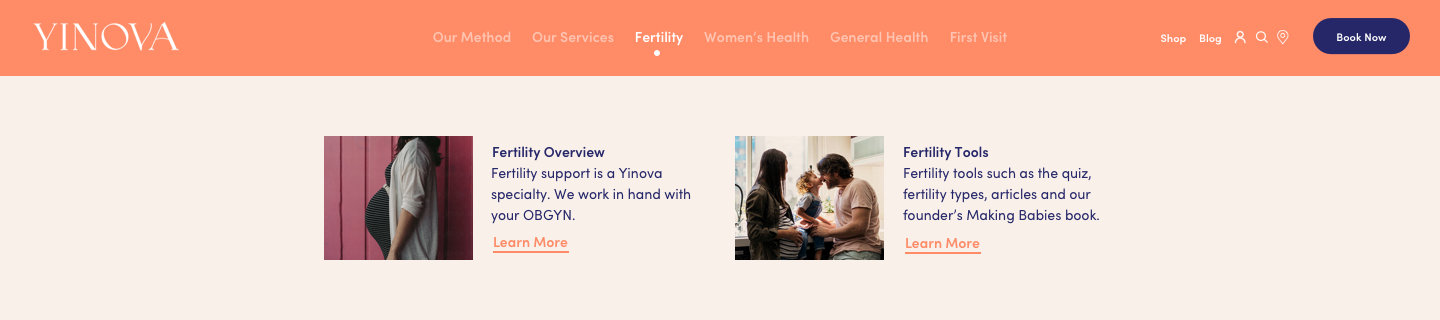
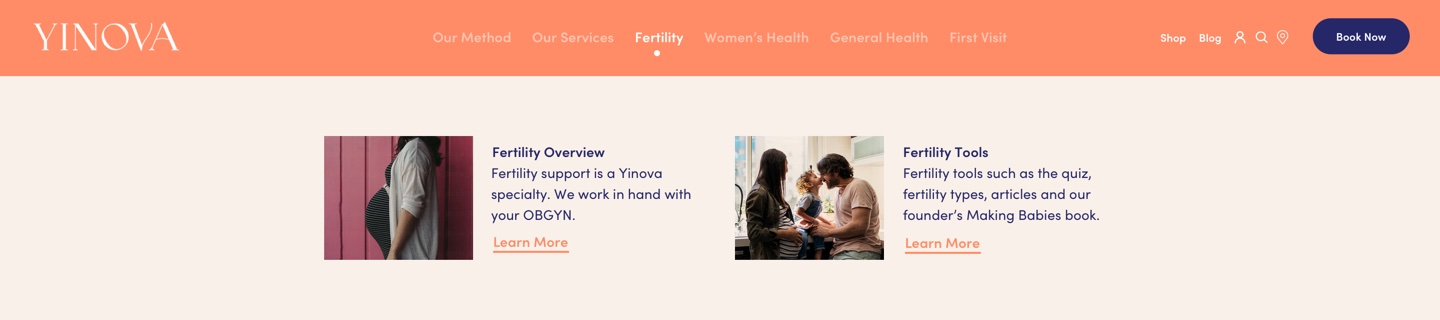
Concept B V1.3

diff --git a/yinova/b/index.hyperesources/index_hype_generated_script.js b/yinova/b/index.hyperesources/index_hype_generated_script.js
@@ -3,5 +3,5 @@
 (function(){(function k(){function l(a,b,d){var c=!1;null==window[a]&&(null==window[b]?(window[b]=[],window[b].push(k),a=document.getElementsByTagName("head")[0],b=document.createElement("script"),c=h,false==!0&&(c=""),b.type="text/javascript",b.src=c+"/"+d,a.appendChild(b)):window[b].push(k),c=!0);return c}var h="index.hyperesources",c="index",e="index_hype_container";if(false==!1)try{for(var f=document.getElementsByTagName("script"),
 a=0;a<f.length;a++){var b=f[a].src,d=null!=b?b.indexOf("/index_hype_generated_script.js"):-1;if(-1!=d){h=b.substr(0,d);break}}}catch(n){}if(false==!1&&(a=navigator.userAgent.match(/MSIE (\d+\.\d+)/),a=parseFloat(a&&a[1])||null,a=l("HYPE_590","HYPE_dtl_590",!0==(null!=a&&10>a||false==!0)?"HYPE-590.full.min.js":"HYPE-590.thin.min.js"),false==!0&&(a=a||l("HYPE_w_590","HYPE_wdtl_590","HYPE-590.waypoints.min.js")),a))return;f=window.HYPE.documents;
 if(null!=f[c]){b=1;a=c;do c=""+a+"-"+b++;while(null!=f[c]);d=document.getElementsByTagName("div");b=!1;for(a=0;a<d.length;a++)if(d[a].id==e&&null==d[a].getAttribute("HYP_dn")){var b=1,g=e;do e=""+g+"-"+b++;while(null!=document.getElementById(e));d[a].id=e;b=!0;break}if(!1==b)return}b=[];b=[{name:"untitledFunction",source:"function(hypeDocument, element, event) {\t\n\t\t\n\t\t\n\t\t\tmenu = hypeDocument.getElementById('menu');\n\n\twindow.onscroll = function(){\n\t\tvar scroll = window.pageYOffset || (document.body.scrollTop || document.documentElement.scrollTop);\n\t\t\n\t\tvar menuDelta = 100;\n\t\tvar menuFadeOut = 9000;\n\n\t\tif (scroll > menuDelta){\n\t\t\tmenu.classList.add('sticky')\n\t\t}\n\t\tif (scroll <= menuDelta){\n\t\t\tmenu.classList.remove('sticky')\n\t\t}\n\t\tif (scroll > menuFadeOut){\n\t\t\tmenu.classList.remove('sticky')\n\t\t}\n\t};\t\n\t\n\n\n}",identifier:"11"},{name:"untitledFunction2",source:"function(hypeDocument, element, event) {\t\n\t\t\n\t\t\tmenu = hypeDocument.getElementById('menub');\n\n\twindow.onscroll = function(){\n\t\tvar scroll = window.pageYOffset || (document.body.scrollTop || document.documentElement.scrollTop);\n\t\t\n\t\tvar menubDelta = 100;\n\t\tvar menubFadeOut = 14000;\n\n\t\tif (scroll > menubDelta){\n\t\t\tmenub.classList.add('sticky')\n\t\t}\n\t\tif (scroll <= menubDelta){\n\t\t\tmenub.classList.remove('sticky')\n\t\t}\n\t\tif (scroll > menubFadeOut){\n\t\t\tmenub.classList.remove('sticky')\n\t\t}\n\t};\t\n}",identifier:"186"}];d={};g={};for(a=0;a<b.length;a++)try{g[b[a].identifier]=b[a].name,d[b[a].name]=eval("(function(){return "+b[a].source+"})();")}catch(m){window.console&&window.console.log(m),d[b[a].name]=
-function(){}}a=new HYPE_590(c,e,{"10":{p:1,n:"C2%20Fertility%20Design%20V1_2x.jpg",g:"480",o:true,t:"@2x"},"2":{p:1,n:"C2%20Sticky%20Nav.jpg",g:"478",t:"@1x"},"-2":{n:"blank.gif"},"3":{n:"FORYINOVA.mp4",g:"428",t:"video/mp4"},"4":{p:1,n:"C2%20Yinova%20Desktop%20Nav%20Fertility.jpg",g:"481",t:"@1x"},"5":{p:1,n:"C2%20Slideout%20Desktop.png",g:"483",o:true,t:"@1x"},"6":{p:1,n:"C2%20Slideout%20Desktop_2x.png",g:"483",o:true,t:"@2x"},"7":{p:1,n:"C2%20Homepage%20Design%20V1.jpg",g:"479",o:true,t:"@1x"},"-1":{n:"PIE.htc"},"0":{p:1,n:"StickyNav.jpg",g:"446",o:true,t:"@1x"},"8":{p:1,n:"C2%20Homepage%20Design%20V1_2x.jpg",g:"479",o:true,t:"@2x"},"1":{p:1,n:"StickyNav_2x.jpg",g:"446",o:true,t:"@2x"},"9":{p:1,n:"C2%20Fertility%20Design%20V1.jpg",g:"480",o:true,t:"@1x"}},h,[],d,[{n:"Homepage",o:"1",X:[0]},{n:"Fertility",o:"245",X:[1]}],[{A:{a:[{p:4,h:"11"}]},o:"3",p:"600px",cA:false,Y:1440,Z:5345,c:"#FFFFFF",L:[],bY:1,d:1440,U:{},T:{"309":{i:"309",n:"Navigation",z:0,b:[],a:[],f:30},kTimelineDefaultIdentifier:{i:"kTimelineDefaultIdentifier",n:"Main Timeline",z:16.24,b:[],a:[{y:0,p:1,i:"Video Track",z:16.24,o:"496",f:"a"}],f:30},"460":{i:"460",n:"Expanded Navigation",z:0.15,b:[],a:[{f:"c",y:0,z:0.15,i:"e",e:1,s:0,o:"498"},{y:0.15,i:"e",s:1,z:0,o:"498",f:"c"}],f:30},"436":{i:"436",n:"Slideout SmartyCallOut",z:0,b:[],a:[],f:30}},bZ:180,O:["489","493","490","491","492","494","496","497","498","488","499","495"],n:"Untitled Layout","_":0,v:{"496":{aR:"1",x:"visible",bE:"428",a:0,b:-89,j:"absolute",bF:"495",c:1440,k:"video",z:1,d:810,aO:"0",aQ:"1",aH:"1"},"491":{G:"#CA3725",aU:8,aV:8,r:"inline",s:"Helvetica,Arial,Sans-Serif",t:12,Z:"break-word",v:"bold",w:"PROTOTYPE NAVIGATION<br>",bF:"490",A:"#CA3725",x:"visible",yy:"nowrap",B:"#CA3725",y:"preserve",j:"absolute",C:"#CA3725",z:5,k:"div",D:"#CA3725",aS:8,aT:8,a:34,b:5},"499":{c:58,d:27,I:"None",e:1,J:"None",K:"None",L:"None",M:0,N:0,A:"#D8DDE4",x:"visible",j:"absolute",B:"#D8DDE4",k:"div",O:0,C:"#D8DDE4",z:81,P:0,D:"#D8DDE4",aC:{a:[{b:"460",p:3,z:true,symbolOid:"2"}]},a:631,aD:{a:[{b:"460",p:3,z:false,symbolOid:"2"}]},b:64},"488":{h:"479",p:"no-repeat",x:"visible",a:0,q:"100% 100%",b:40,j:"absolute",dB:"img",z:1,k:"div",c:1440,d:5305,r:"inline",cQ:1,cR:1},"494":{b:7,z:7,K:"None",c:99,L:"None",d:19,aS:3,M:0,e:0.59999999999999998,bD:"none",N:0,aT:3,dB:"button",O:0,g:"#333333",aU:3,P:0,bF:"490",aV:3,j:"absolute",k:"div",aI:4,aJ:4,aK:4,X:-0.32954499999999998,aL:4,A:"#A0A0A0",Y:19,B:"#A0A0A0",Z:"break-word",r:"inline",C:"#A0A0A0",D:"#A0A0A0",t:11,aA:{a:[{d:1.1000000000000001,p:1,g:1,e:"245"}]},F:"center",v:"normal",G:"#FFFFFF",aP:"pointer",w:"Fertility",x:"visible",I:"None",a:726,y:"preserve",J:"None"},"497":{c:1456,d:693,I:"None",r:"inline",J:"None",K:"None",L:"None",M:0,N:0,bF:"495",A:"#D8DDE4",x:"visible",j:"absolute",B:"#D8DDE4",k:"div",O:0,C:"#D8DDE4",z:2,l:0,D:"#D8DDE4",m:"rgba(0, 0, 0, 0.000)",P:0,n:"rgba(0, 0, 0, 0.203)",a:-8,b:-78},"492":{b:7,z:6,K:"None",c:99,L:"None",d:19,aS:3,M:0,e:0.29999999999999999,bD:"none",N:0,aT:3,dB:"button",O:0,g:"#333333",aU:3,P:0,bF:"490",aV:3,j:"absolute",aI:4,k:"div",aJ:4,aK:4,X:-0.32954499999999998,aL:4,A:"#A0A0A0",Y:19,B:"#A0A0A0",Z:"break-word",r:"inline",C:"#A0A0A0",D:"#A0A0A0",t:11,F:"center",v:"normal",G:"#FFFFFF",aP:"pointer",w:"Homepage",x:"visible",I:"None",a:611,y:"preserve",J:"None"},"489":{h:"478",p:"no-repeat",x:"visible",i:"menu",q:"100% 100%",b:-95,a:1,j:"absolute",z:85,k:"div",dB:"img",d:53,c:1440,r:"inline",aP:"pointer"},"495":{k:"div",x:"hidden",c:1440,d:558,z:73,a:0,j:"absolute",b:116},"490":{x:"visible",k:"div",c:1440,d:40,z:65,e:1,a:0,j:"absolute",b:0},"498":{h:"481",p:"no-repeat",x:"visible",a:0,q:"100% 100%",b:40,j:"absolute",dB:"img",z:80,k:"div",c:1440,d:320,r:"inline",e:0},"493":{c:1440,d:40,I:"None",J:"None",K:"None",g:"#D3D5D7",L:"None",M:0,N:0,bF:"490",A:"#D8DDE4",x:"visible",j:"absolute",B:"#D8DDE4",k:"div",O:0,C:"#D8DDE4",z:1,P:0,D:"#D8DDE4",a:0,b:0}}},{A:{a:[{p:4,h:"186"}]},o:"282",p:"600px",cA:false,Y:1440,Z:5680,c:"#FFFFFF",L:[],bY:1,d:1440,U:{},T:{"465":{i:"465",n:"Expanded Navigation",z:0,b:[],a:[],f:30},"485":{i:"485",n:"Fertility condition slideout",z:1,b:[],a:[{f:"c",y:0,z:1,i:"e",e:1,s:0,o:"512"},{y:1,i:"e",s:1,z:0,o:"512",f:"c"}],f:30},kTimelineDefaultIdentifier:{i:"kTimelineDefaultIdentifier",n:"Main Timeline",z:0,b:[],a:[],f:30}},bZ:180,O:["509","507","503","508","505","506","515","513","504","510","512","511","500","502","501","514"],n:"Untitled Layout","_":1,v:{"508":{G:"#CA3725",aU:8,aV:8,r:"inline",s:"Helvetica,Arial,Sans-Serif",t:12,Z:"break-word",v:"bold",w:"PROTOTYPE NAVIGATION<br>",bF:"503",A:"#CA3725",x:"visible",yy:"nowrap",B:"#CA3725",y:"preserve",j:"absolute",C:"#CA3725",z:5,k:"div",D:"#CA3725",aS:8,aT:8,a:34,b:5},"503":{x:"visible",k:"div",c:1440,d:40,z:55,e:1,a:0,j:"absolute",b:0},"514":{c:101,d:25,I:"Solid",e:0,J:"Solid",K:"Solid",g:"#E8EBED",L:"Solid",aP:"pointer",M:1,N:1,A:"#D8DDE4",x:"visible",aA:{a:[{b:"485",p:3,z:false,symbolOid:"246"}]},O:1,j:"absolute",k:"div",dB:"button",z:58,C:"#D8DDE4",D:"#D8DDE4",B:"#D8DDE4",P:1,a:127,b:1456},"506":{b:7,z:9,K:"None",c:99,L:"None",d:19,aS:3,M:0,e:0.29999999999999999,bD:"none",N:0,aT:3,dB:"button",O:0,g:"#333333",aU:3,P:0,bF:"503",aV:3,j:"absolute",k:"div",aI:4,aJ:4,aK:4,X:-0.32954499999999998,aL:4,A:"#A0A0A0",Y:19,B:"#A0A0A0",Z:"break-word",r:"inline",C:"#A0A0A0",D:"#A0A0A0",t:11,aA:{a:[{d:1.1000000000000001,p:1,g:1,e:"245"}]},F:"center",v:"normal",G:"#FFFFFF",aP:"pointer",w:"Fertility<br>",x:"visible",I:"None",a:726,y:"preserve",J:"None"},"501":{h:"446",p:"no-repeat",x:"visible",a:0,q:"100% 100%",b:41,j:"absolute",cY:"0",z:1,k:"div",dB:"img",d:81,bF:"500",c:1440,e:0,r:"inline"},"512":{h:"483",p:"no-repeat",x:"visible",a:1,q:"100% 100%",b:1207,j:"absolute",dB:"img",z:56,k:"div",c:1440,d:995,r:"inline",e:0},"509":{h:"478",p:"no-repeat",x:"visible",i:"menub",q:"100% 100%",b:-81,a:1,j:"absolute",z:74,k:"div",dB:"img",d:53,c:1440,r:"inline"},"504":{c:177,d:78,I:"None",J:"None",K:"None",L:"None",aP:"pointer",M:0,N:0,bF:"503",A:"#D8DDE4",x:"visible",aA:{a:[{d:1.1000000000000001,p:1,g:1,e:"1"}]},B:"#D8DDE4",j:"absolute",O:0,dB:"button",z:7,C:"#D8DDE4",D:"#D8DDE4",k:"div",P:0,a:51,b:97},"510":{c:58,d:27,I:"None",e:1,J:"None",K:"None",L:"None",M:0,N:0,A:"#D8DDE4",x:"visible",j:"absolute",B:"#D8DDE4",k:"div",O:0,C:"#D8DDE4",z:57,P:0,D:"#D8DDE4",aC:{a:[{b:"460",p:3,z:true,symbolOid:"2"}]},a:646,aD:{a:[{b:"460",p:3,z:false,symbolOid:"2"}]},b:161},"515":{w:"",h:"480",p:"no-repeat",x:"visible",a:0,q:"100% 100%",b:40,j:"absolute",dB:"img",z:0,k:"div",c:1440,d:5642,r:"inline"},"507":{c:1440,d:40,I:"None",J:"None",K:"None",g:"#D3D5D7",L:"None",M:0,N:0,bF:"503",A:"#D8DDE4",x:"visible",j:"absolute",B:"#D8DDE4",k:"div",O:0,C:"#D8DDE4",z:1,P:0,D:"#D8DDE4",a:0,b:0},"502":{c:1445,d:55,I:"None",J:"None",K:"None",L:"None",aP:"pointer",M:0,N:0,bF:"500",A:"#D8DDE4",x:"visible",aA:{a:[{b:"449",p:3,z:false,symbolOid:"246"}]},B:"#D8DDE4",j:"absolute",O:0,dB:"button",z:3,C:"#D8DDE4",D:"#D8DDE4",k:"div",P:0,a:0,b:13},"513":{c:173,d:51,I:"Solid",e:0,J:"Solid",K:"Solid",g:"#E8EBED",L:"Solid",aP:"pointer",M:1,N:1,A:"#D8DDE4",x:"visible",aA:{a:[{d:1.1000000000000001,p:1,g:1,e:"1"}]},O:1,j:"absolute",k:"div",dB:"button",z:60,C:"#D8DDE4",D:"#D8DDE4",B:"#D8DDE4",P:1,a:25,b:46},"505":{b:7,z:6,K:"None",c:99,L:"None",d:19,aS:3,M:0,e:0.59999999999999998,bD:"none",N:0,aT:3,dB:"button",O:0,g:"#333333",aU:3,P:0,bF:"503",aV:3,j:"absolute",k:"div",aI:4,aJ:4,aK:4,X:-0.32954499999999998,aL:4,A:"#A0A0A0",Y:19,B:"#A0A0A0",Z:"break-word",r:"inline",C:"#A0A0A0",D:"#A0A0A0",t:11,aA:{a:[{d:1.1000000000000001,p:1,g:1,e:"1"}]},F:"center",v:"normal",G:"#FFFFFF",aP:"pointer",w:"Homepage",x:"visible",I:"None",a:611,y:"preserve",J:"None"},"511":{c:104,d:119,I:"Solid",e:0,J:"Solid",K:"Solid",g:"#E8EBED",L:"Solid",aP:"pointer",M:1,N:1,A:"#D8DDE4",x:"visible",aA:{a:[{b:"485",p:3,z:true,symbolOid:"246"}]},O:1,j:"absolute",k:"div",dB:"button",z:59,C:"#D8DDE4",D:"#D8DDE4",B:"#D8DDE4",P:1,a:1334,b:1212},"500":{k:"div",x:"visible",c:1440,d:81,z:52,a:0,j:"absolute",b:1333}}}],{},g,{},null,false,true,-1,true,true,false,true);f[c]=a.API;document.getElementById(e).setAttribute("HYP_dn",
+function(){}}a=new HYPE_590(c,e,{"-2":{n:"blank.gif"},"18":{p:1,n:"C2%20Yinova%20Desktop%20Nav%20Fertility.jpg",g:"481",o:true,t:"@1x"},"10":{p:1,n:"C2%20Yinova%20Desktop%20Nav%20Our%20Method.jpg",g:"488",o:true,t:"@1x"},"19":{p:1,n:"C2%20Yinova%20Desktop%20Nav%20Fertility_2x.jpg",g:"481",o:true,t:"@2x"},"11":{p:1,n:"C2%20Yinova%20Desktop%20Nav%20Our%20Method_2x.jpg",g:"488",o:true,t:"@2x"},"0":{p:1,n:"StickyNav.jpg",g:"446",o:true,t:"@1x"},"12":{p:1,n:"C2%20Yinova%20D%20Nav%20Our%20Services.jpg",g:"493",o:true,t:"@1x"},"1":{p:1,n:"StickyNav_2x.jpg",g:"446",o:true,t:"@2x"},"2":{p:1,n:"C2%20Sticky%20Nav.jpg",g:"478",t:"@1x"},"13":{p:1,n:"C2%20Yinova%20D%20Nav%20Our%20Services_2x.jpg",g:"493",o:true,t:"@2x"},"3":{n:"FORYINOVA.mp4",g:"428",t:"video/mp4"},"14":{p:1,n:"C2%20Yinova%20Desktop%20Nav%20Women%27s%20Health.jpg",g:"497",o:true,t:"@1x"},"4":{p:1,n:"C2%20Slideout%20Desktop.png",g:"483",o:true,t:"@1x"},"5":{p:1,n:"C2%20Slideout%20Desktop_2x.png",g:"483",o:true,t:"@2x"},"15":{p:1,n:"C2%20Yinova%20Desktop%20Nav%20Women%27s%20Health_2x.jpg",g:"497",o:true,t:"@2x"},"6":{p:1,n:"C2%20Homepage%20Design%20V1.jpg",g:"479",o:true,t:"@1x"},"16":{p:1,n:"C2%20Yinova%20D%20Nav%20General%20Health%20C.jpg",g:"503",o:true,t:"@1x"},"7":{p:1,n:"C2%20Homepage%20Design%20V1_2x.jpg",g:"479",o:true,t:"@2x"},"-1":{n:"PIE.htc"},"8":{p:1,n:"C2%20Fertility%20Design%20V1.jpg",g:"480",o:true,t:"@1x"},"17":{p:1,n:"C2%20Yinova%20D%20Nav%20General%20Health%20C_2x.jpg",g:"503",o:true,t:"@2x"},"9":{p:1,n:"C2%20Fertility%20Design%20V1_2x.jpg",g:"480",o:true,t:"@2x"}},h,[],d,[{n:"Homepage",o:"1",X:[0]},{n:"Fertility",o:"245",X:[1]}],[{A:{a:[{p:4,h:"11"}]},o:"3",p:"600px",cA:false,Y:1440,Z:5345,c:"#FFFFFF",L:[],bY:1,d:1440,U:{},T:{"460":{i:"460",n:"Expanded Navigation",z:0.15,b:[],a:[{f:"c",y:0,z:0.15,i:"e",e:1,s:0,o:"516"},{y:0.15,i:"e",s:1,z:0,o:"516",f:"c"}],f:30},"499":{i:"499",n:"Womens Health Expanded Nav",z:0.15,b:[],a:[{f:"c",y:0,z:0.15,i:"e",e:1,s:0,o:"523"},{y:0.15,i:"e",s:1,z:0,o:"523",f:"c"}],f:30},"505":{i:"505",n:"General Health Expanded Nav",z:0.15,b:[],a:[{f:"c",y:0,z:0.15,i:"e",e:1,s:0,o:"525"},{y:0.15,i:"e",s:1,z:0,o:"525",f:"c"}],f:30},"495":{i:"495",n:"Services Expanded Nav",z:0.15,b:[],a:[{f:"c",y:0,z:0.15,i:"e",e:1,s:0,o:"521"},{y:0.15,i:"e",s:1,z:0,o:"521",f:"c"}],f:30},"491":{i:"491",n:"Our Method Expanded Nav",z:0.15,b:[],a:[{f:"c",y:0,z:0.15,i:"e",e:1,s:0,o:"518"},{y:0.15,i:"e",s:1,z:0,o:"518",f:"c"}],f:30},"309":{i:"309",n:"Navigation",z:0,b:[],a:[],f:30},kTimelineDefaultIdentifier:{i:"kTimelineDefaultIdentifier",n:"Main Timeline",z:16.24,b:[],a:[{y:0,p:1,i:"Video Track",z:16.24,o:"514",f:"a"}],f:30}},bZ:180,O:["507","511","508","509","510","512","514","515","525","523","521","518","516","506","519","520","517","522","524","513"],n:"Untitled Layout","_":0,v:{"506":{h:"479",p:"no-repeat",x:"visible",a:0,q:"100% 100%",b:40,j:"absolute",dB:"img",z:1,k:"div",c:1440,d:5305,r:"inline",cQ:1,cR:1},"519":{c:92,d:27,I:"None",e:1,J:"None",K:"None",L:"None",M:0,N:0,A:"#D8DDE4",x:"visible",j:"absolute",B:"#D8DDE4",k:"div",O:0,C:"#D8DDE4",z:89,P:0,D:"#D8DDE4",aC:{a:[{b:"491",p:3,z:true,symbolOid:"2"}]},a:426,aD:{a:[{b:"491",p:3,z:false,symbolOid:"2"}]},b:64},"510":{b:7,z:6,K:"None",c:99,L:"None",d:19,aS:3,M:0,e:0.29999999999999999,bD:"none",N:0,aT:3,dB:"button",O:0,g:"#333333",aU:3,P:0,bF:"508",aV:3,j:"absolute",aI:4,k:"div",aJ:4,aK:4,X:-0.32954499999999998,aL:4,A:"#A0A0A0",Y:19,B:"#A0A0A0",Z:"break-word",r:"inline",C:"#A0A0A0",D:"#A0A0A0",t:11,F:"center",v:"normal",G:"#FFFFFF",aP:"pointer",w:"Homepage",x:"visible",I:"None",a:611,y:"preserve",J:"None"},"523":{h:"497",p:"no-repeat",x:"visible",a:0,q:"100% 100%",b:40,j:"absolute",dB:"img",z:83,k:"div",c:1440,d:320,r:"inline",e:0},"515":{c:1456,d:693,I:"None",r:"inline",J:"None",K:"None",L:"None",M:0,N:0,bF:"513",A:"#D8DDE4",x:"visible",j:"absolute",B:"#D8DDE4",k:"div",O:0,C:"#D8DDE4",z:2,l:0,D:"#D8DDE4",m:"rgba(0, 0, 0, 0.000)",P:0,n:"rgba(0, 0, 0, 0.203)",a:-8,b:-78},"507":{h:"478",p:"no-repeat",x:"visible",i:"menu",q:"100% 100%",b:-95,a:1,j:"absolute",z:94,k:"div",dB:"img",d:53,c:1440,r:"inline",aP:"pointer"},"511":{c:1440,d:40,I:"None",J:"None",K:"None",g:"#D3D5D7",L:"None",M:0,N:0,bF:"508",A:"#D8DDE4",x:"visible",j:"absolute",B:"#D8DDE4",k:"div",O:0,C:"#D8DDE4",z:1,P:0,D:"#D8DDE4",a:0,b:0},"524":{c:103,d:27,I:"None",e:1,J:"None",K:"None",L:"None",M:0,N:0,A:"#D8DDE4",x:"visible",j:"absolute",B:"#D8DDE4",k:"div",O:0,C:"#D8DDE4",z:87,P:0,D:"#D8DDE4",aC:{a:[{b:"505",p:3,z:true,symbolOid:"2"}]},a:827,aD:{a:[{b:"505",p:3,z:false,symbolOid:"2"}]},b:64},"516":{h:"481",p:"no-repeat",x:"visible",a:0,q:"100% 100%",b:40,j:"absolute",dB:"img",z:80,k:"div",c:1440,d:320,r:"inline",e:0},"508":{x:"visible",k:"div",c:1440,d:40,z:65,e:1,a:0,j:"absolute",b:0},"520":{c:92,d:27,I:"None",e:1,J:"None",K:"None",L:"None",M:0,N:0,A:"#D8DDE4",x:"visible",j:"absolute",B:"#D8DDE4",k:"div",O:0,C:"#D8DDE4",z:90,P:0,D:"#D8DDE4",aC:{a:[{b:"495",p:3,z:true,symbolOid:"2"}]},a:528,aD:{a:[{b:"495",p:3,z:false,symbolOid:"2"}]},b:64},"512":{b:7,z:7,K:"None",c:99,L:"None",d:19,aS:3,M:0,e:0.59999999999999998,bD:"none",N:0,aT:3,dB:"button",O:0,g:"#333333",aU:3,P:0,bF:"508",aV:3,j:"absolute",k:"div",aI:4,aJ:4,aK:4,X:-0.32954499999999998,aL:4,A:"#A0A0A0",Y:19,B:"#A0A0A0",Z:"break-word",r:"inline",C:"#A0A0A0",D:"#A0A0A0",t:11,aA:{a:[{d:1.1000000000000001,p:1,g:1,e:"245"}]},F:"center",v:"normal",G:"#FFFFFF",aP:"pointer",w:"Fertility",x:"visible",I:"None",a:726,y:"preserve",J:"None"},"525":{h:"503",p:"no-repeat",x:"visible",a:0,q:"100% 100%",b:40,j:"absolute",dB:"img",z:84,k:"div",c:1440,d:407,r:"inline",e:0},"517":{c:58,d:27,I:"None",e:1,J:"None",K:"None",L:"None",M:0,N:0,A:"#D8DDE4",x:"visible",j:"absolute",B:"#D8DDE4",k:"div",O:0,C:"#D8DDE4",z:85,P:0,D:"#D8DDE4",aC:{a:[{b:"460",p:3,z:true,symbolOid:"2"}]},a:631,aD:{a:[{b:"460",p:3,z:false,symbolOid:"2"}]},b:64},"509":{G:"#CA3725",aU:8,aV:8,r:"inline",s:"Helvetica,Arial,Sans-Serif",t:12,Z:"break-word",v:"bold",w:"PROTOTYPE NAVIGATION<br>",bF:"508",A:"#CA3725",x:"visible",yy:"nowrap",B:"#CA3725",y:"preserve",j:"absolute",C:"#CA3725",z:5,k:"div",D:"#CA3725",aS:8,aT:8,a:34,b:5},"521":{h:"493",p:"no-repeat",x:"visible",a:0,q:"100% 100%",b:40,j:"absolute",dB:"img",z:82,k:"div",c:1440,d:320,r:"inline",e:0},"513":{k:"div",x:"hidden",c:1440,d:558,z:73,a:0,j:"absolute",b:116},"518":{h:"488",p:"no-repeat",x:"visible",a:0,q:"100% 100%",b:40,j:"absolute",dB:"img",z:81,k:"div",c:1440,d:320,r:"inline",e:0},"522":{c:116,d:27,I:"None",e:1,J:"None",K:"None",L:"None",M:0,N:0,A:"#D8DDE4",x:"visible",j:"absolute",B:"#D8DDE4",k:"div",O:0,C:"#D8DDE4",z:86,P:0,D:"#D8DDE4",aC:{a:[{b:"499",p:3,z:true,symbolOid:"2"}]},a:700,aD:{a:[{b:"499",p:3,z:false,symbolOid:"2"}]},b:64},"514":{aR:"1",x:"visible",bE:"428",a:0,b:-89,j:"absolute",bF:"513",c:1440,k:"video",z:1,d:810,aO:"0",aQ:"1",aH:"1"}}},{A:{a:[{p:4,h:"186"}]},o:"282",p:"600px",cA:false,Y:1440,Z:5680,c:"#FFFFFF",L:[],bY:1,d:1440,U:{},T:{"465":{i:"465",n:"Expanded Navigation",z:0,b:[],a:[],f:30},"485":{i:"485",n:"Fertility condition slideout",z:1,b:[],a:[{f:"c",y:0,z:1,i:"e",e:1,s:0,o:"538"},{y:1,i:"e",s:1,z:0,o:"538",f:"c"}],f:30},kTimelineDefaultIdentifier:{i:"kTimelineDefaultIdentifier",n:"Main Timeline",z:0,b:[],a:[],f:30}},bZ:180,O:["535","533","529","534","531","532","541","539","530","536","538","537","526","528","527","540"],n:"Untitled Layout","_":1,v:{"539":{c:173,d:51,I:"Solid",e:0,J:"Solid",K:"Solid",g:"#E8EBED",L:"Solid",aP:"pointer",M:1,N:1,A:"#D8DDE4",x:"visible",aA:{a:[{d:1.1000000000000001,p:1,g:1,e:"1"}]},O:1,j:"absolute",k:"div",dB:"button",z:60,C:"#D8DDE4",D:"#D8DDE4",B:"#D8DDE4",P:1,a:25,b:46},"528":{c:1445,d:55,I:"None",J:"None",K:"None",L:"None",aP:"pointer",M:0,N:0,bF:"526",A:"#D8DDE4",x:"visible",aA:{a:[{b:"449",p:3,z:false,symbolOid:"246"}]},B:"#D8DDE4",j:"absolute",O:0,dB:"button",z:3,C:"#D8DDE4",D:"#D8DDE4",k:"div",P:0,a:0,b:13},"534":{G:"#CA3725",aU:8,aV:8,r:"inline",s:"Helvetica,Arial,Sans-Serif",t:12,Z:"break-word",v:"bold",w:"PROTOTYPE NAVIGATION<br>",bF:"529",A:"#CA3725",x:"visible",yy:"nowrap",B:"#CA3725",y:"preserve",j:"absolute",C:"#CA3725",z:5,k:"div",D:"#CA3725",aS:8,aT:8,a:34,b:5},"540":{c:101,d:25,I:"Solid",e:0,J:"Solid",K:"Solid",g:"#E8EBED",L:"Solid",aP:"pointer",M:1,N:1,A:"#D8DDE4",x:"visible",aA:{a:[{b:"485",p:3,z:false,symbolOid:"246"}]},O:1,j:"absolute",k:"div",dB:"button",z:58,C:"#D8DDE4",D:"#D8DDE4",B:"#D8DDE4",P:1,a:127,b:1456},"537":{c:104,d:119,I:"Solid",e:0,J:"Solid",K:"Solid",g:"#E8EBED",L:"Solid",aP:"pointer",M:1,N:1,A:"#D8DDE4",x:"visible",aA:{a:[{b:"485",p:3,z:true,symbolOid:"246"}]},O:1,j:"absolute",k:"div",dB:"button",z:59,C:"#D8DDE4",D:"#D8DDE4",B:"#D8DDE4",P:1,a:1334,b:1212},"526":{k:"div",x:"visible",c:1440,d:81,z:52,a:0,j:"absolute",b:1333},"532":{b:7,z:9,K:"None",c:99,L:"None",d:19,aS:3,M:0,e:0.29999999999999999,bD:"none",N:0,aT:3,dB:"button",O:0,g:"#333333",aU:3,P:0,bF:"529",aV:3,j:"absolute",k:"div",aI:4,aJ:4,aK:4,X:-0.32954499999999998,aL:4,A:"#A0A0A0",Y:19,B:"#A0A0A0",Z:"break-word",r:"inline",C:"#A0A0A0",D:"#A0A0A0",t:11,aA:{a:[{d:1.1000000000000001,p:1,g:1,e:"245"}]},F:"center",v:"normal",G:"#FFFFFF",aP:"pointer",w:"Fertility<br>",x:"visible",I:"None",a:726,y:"preserve",J:"None"},"529":{x:"visible",k:"div",c:1440,d:40,z:55,e:1,a:0,j:"absolute",b:0},"530":{c:177,d:78,I:"None",J:"None",K:"None",L:"None",aP:"pointer",M:0,N:0,bF:"529",A:"#D8DDE4",x:"visible",aA:{a:[{d:1.1000000000000001,p:1,g:1,e:"1"}]},B:"#D8DDE4",j:"absolute",O:0,dB:"button",z:7,C:"#D8DDE4",D:"#D8DDE4",k:"div",P:0,a:51,b:97},"535":{h:"478",p:"no-repeat",x:"visible",i:"menub",q:"100% 100%",b:-81,a:1,j:"absolute",z:74,k:"div",dB:"img",d:53,c:1440,r:"inline"},"541":{w:"",h:"480",p:"no-repeat",x:"visible",a:0,q:"100% 100%",b:40,j:"absolute",dB:"img",z:0,k:"div",c:1440,d:5642,r:"inline"},"538":{h:"483",p:"no-repeat",x:"visible",a:1,q:"100% 100%",b:1207,j:"absolute",dB:"img",z:56,k:"div",c:1440,d:995,r:"inline",e:0},"527":{h:"446",p:"no-repeat",x:"visible",a:0,q:"100% 100%",b:41,j:"absolute",cY:"0",z:1,k:"div",dB:"img",d:81,bF:"526",c:1440,e:0,r:"inline"},"533":{c:1440,d:40,I:"None",J:"None",K:"None",g:"#D3D5D7",L:"None",M:0,N:0,bF:"529",A:"#D8DDE4",x:"visible",j:"absolute",B:"#D8DDE4",k:"div",O:0,C:"#D8DDE4",z:1,P:0,D:"#D8DDE4",a:0,b:0},"536":{c:58,d:27,I:"None",e:1,J:"None",K:"None",L:"None",M:0,N:0,A:"#D8DDE4",x:"visible",j:"absolute",B:"#D8DDE4",k:"div",O:0,C:"#D8DDE4",z:57,P:0,D:"#D8DDE4",aC:{a:[{b:"460",p:3,z:true,symbolOid:"2"}]},a:646,aD:{a:[{b:"460",p:3,z:false,symbolOid:"2"}]},b:161},"531":{b:7,z:6,K:"None",c:99,L:"None",d:19,aS:3,M:0,e:0.59999999999999998,bD:"none",N:0,aT:3,dB:"button",O:0,g:"#333333",aU:3,P:0,bF:"529",aV:3,j:"absolute",k:"div",aI:4,aJ:4,aK:4,X:-0.32954499999999998,aL:4,A:"#A0A0A0",Y:19,B:"#A0A0A0",Z:"break-word",r:"inline",C:"#A0A0A0",D:"#A0A0A0",t:11,aA:{a:[{d:1.1000000000000001,p:1,g:1,e:"1"}]},F:"center",v:"normal",G:"#FFFFFF",aP:"pointer",w:"Homepage",x:"visible",I:"None",a:611,y:"preserve",J:"None"}}}],{},g,{},null,false,true,-1,true,true,false,true);f[c]=a.API;document.getElementById(e).setAttribute("HYP_dn",
 c);a.z_o(this.body)})();})();

diff --git a/yinova/b/index.html b/yinova/b/index.html
@@ -57,7 +57,7 @@
 	<!-- copy these lines to your document: -->
 
 	<div id="index_hype_container" style="margin:auto;position:relative;width:1440px;height:5345px;overflow:hidden;">
-		<script type="text/javascript" charset="utf-8" src="index.hyperesources/index_hype_generated_script.js?15422"></script>
+		<script type="text/javascript" charset="utf-8" src="index.hyperesources/index_hype_generated_script.js?81527"></script>
 	</div>
 
 	<!-- end copy -->
